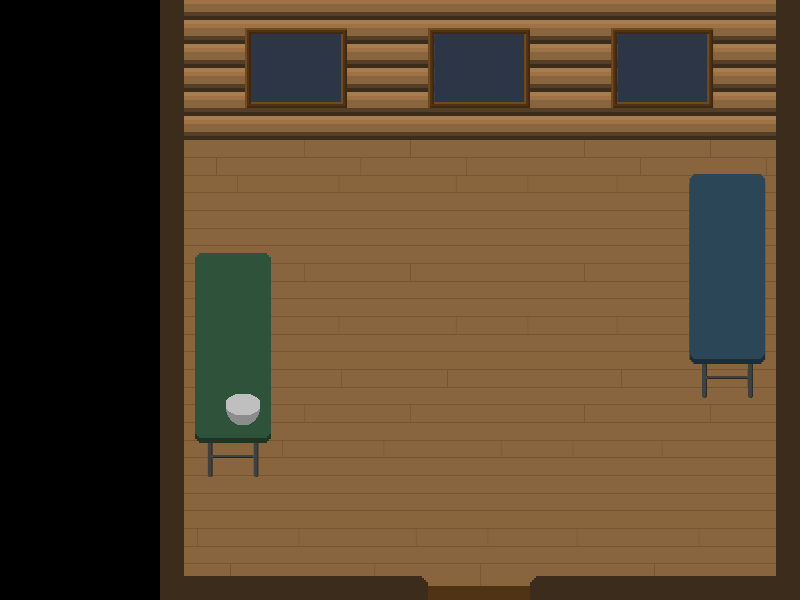
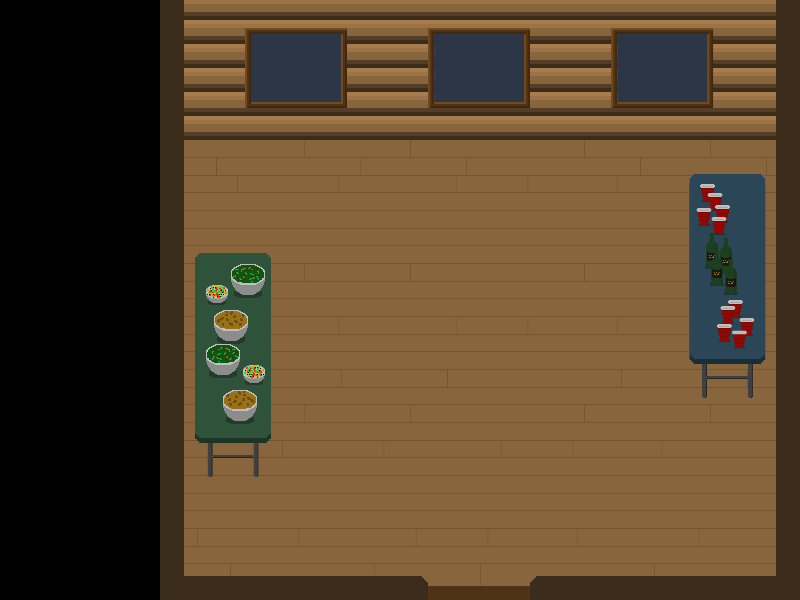
Add guest sprite, tweak play are

Changed region(s): [[0.25, 0.42, 0.3438, 0.72], [0.875, 0.3, 0.9375, 0.6]]

diff --git a/main.js b/main.js
@@ -70,20 +70,22 @@ function render(ctx, party) {
     STEREO_SPRITE.draw(ctx, 383, 69);
 
     // Draw stations
-    ctx.strokeStyle = 'white';
-    STATIONS.forEach(station => {
-      if (station.radius) {
-        drawCircle(ctx, station.pos.i, station.pos.j, station.radius);
-      } else {
-        ctx.strokeRect(station.pos.i, station.pos.j, station.width, station.height);
-      }
-    });
+    // ctx.strokeStyle = 'white';
+    // STATIONS.forEach(station => {
+    //   if (station.radius) {
+    //     drawCircle(ctx, station.pos.i, station.pos.j, station.radius);
+    //   } else {
+    //     ctx.strokeRect(station.pos.i, station.pos.j, station.width, station.height);
+    //   }
+    // });
 
     // Update and draw guests
-    // party.guests.forEach(guest => {
-    //   guest.update(dt);
-    //   guest.render(ctx);
-    // });
+    party.guests
+      .sort((a, b) => a.pos.j - b.pos.j)
+      .forEach(guest => {
+        guest.update(dt);
+        guest.render(ctx);
+      });
 
     // Draw vingette
     drawImg(ctx, VINGETTE_IMG, 160, 0);

diff --git a/src/constants.js b/src/constants.js
@@ -2,10 +2,10 @@ const CANVAS_WIDTH = 800;
 const CANVAS_HEIGHT = 600;
 
 const PLAY_AREA = {
-  x: 184,
-  y: 140,
-  width: 593,
-  height: 436,
+  x: 285,
+  y: 170,
+  width: 380,
+  height: 410,
 };
 
 const FOOD_STATION = {
@@ -41,6 +41,8 @@ BACKGROUND_IMG.src = `img/background${IMG_SUFFIX}.png`;
 const VINGETTE_IMG = new Image();
 VINGETTE_IMG.src = `img/vingette${IMG_SUFFIX}.png`;
 
+const GUEST_IMG = new Image();
+GUEST_IMG.src = `img/guest${IMG_SUFFIX}.png`;
 
 const STEREO_SPRITE = new AnimatedSprite(
   `img/stereo${IMG_SUFFIX}.png`,

diff --git a/src/guest.js b/src/guest.js
@@ -159,7 +159,8 @@ class Guest {
       ctx.fillStyle = 'white';
     }
 
-    drawCircle(ctx, this.pos.i, this.pos.j, 10, true);
+    ctx.drawImage(GUEST_IMG, this.pos.i - 16, this.pos.j - 130, 32, 130);
+    // drawCircle(ctx, this.pos.i, this.pos.j, 10, true);
   }
 
   setWanderingVelocity() {
